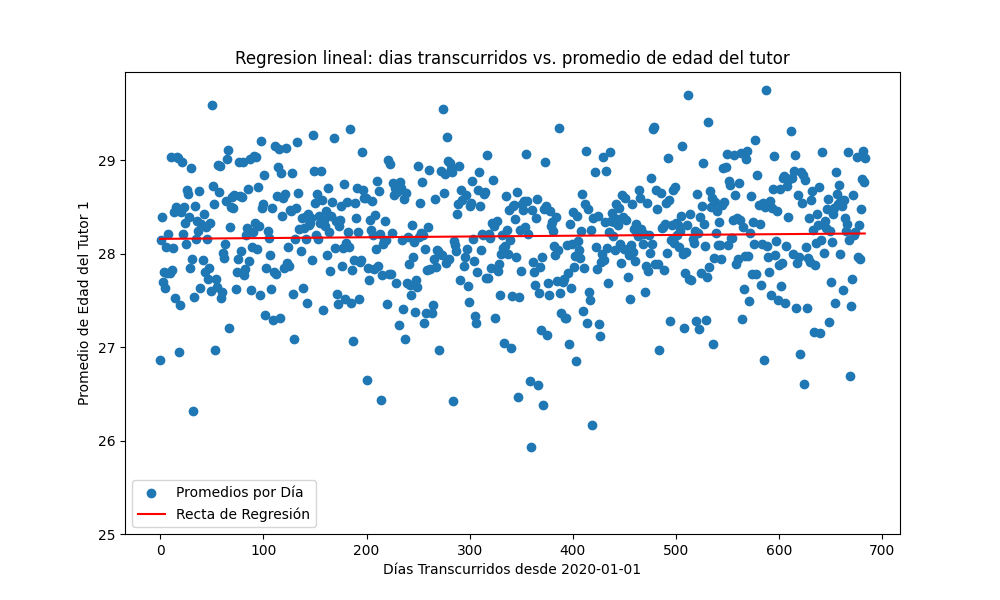
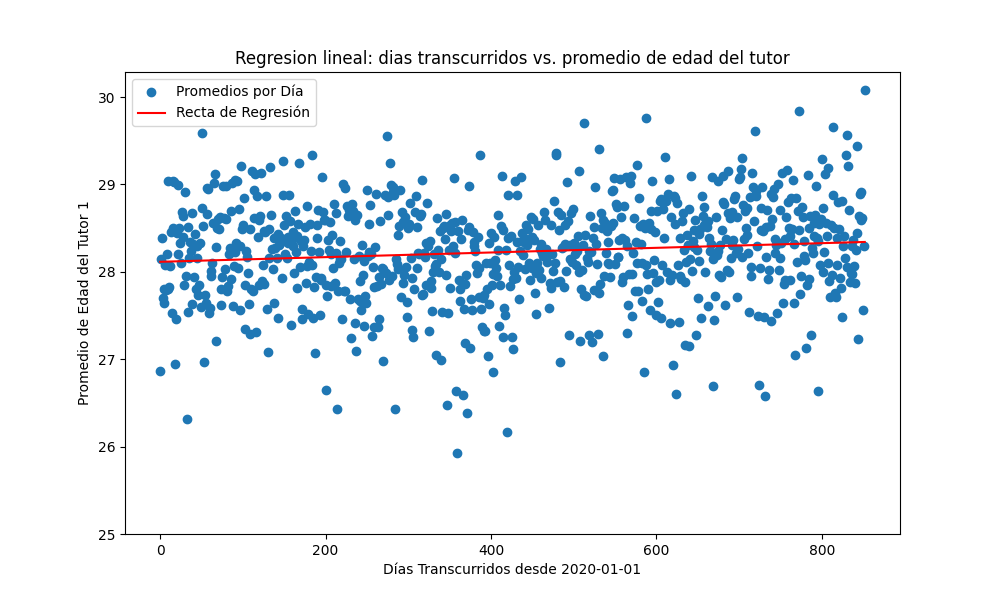
Practica 6, hicimos lo de la regresion lineal, ademas de generar la grafica donde se muestra pues la grafica xd, igual se guarda en imagenes/Graficas

diff --git a/P6_main.py b/P6_main.py
@@ -6,7 +6,7 @@ import matplotlib.pyplot as plt
 if not os.path.exists('imagenes/Graficas'):
     os.makedirs('imagenes/Graficas')
 
-df = pd.read_csv('Actualizacion-Nacimientos2020-2023.csv', nrows=150000)#Modificar este parametro para ver mas datos en la grafica o si tu compu tiene mucha galleta
+df = pd.read_csv('Actualizacion-Nacimientos2020-2023.csv', nrows=185000)#Modificar este parametro para ver mas datos en la grafica o si tu compu tiene mucha galleta
 df['fecha_nacimiento'] = pd.to_datetime(df['fecha_nacimiento'])
 
 #fecha de inicio para calcular los días transcurridos
